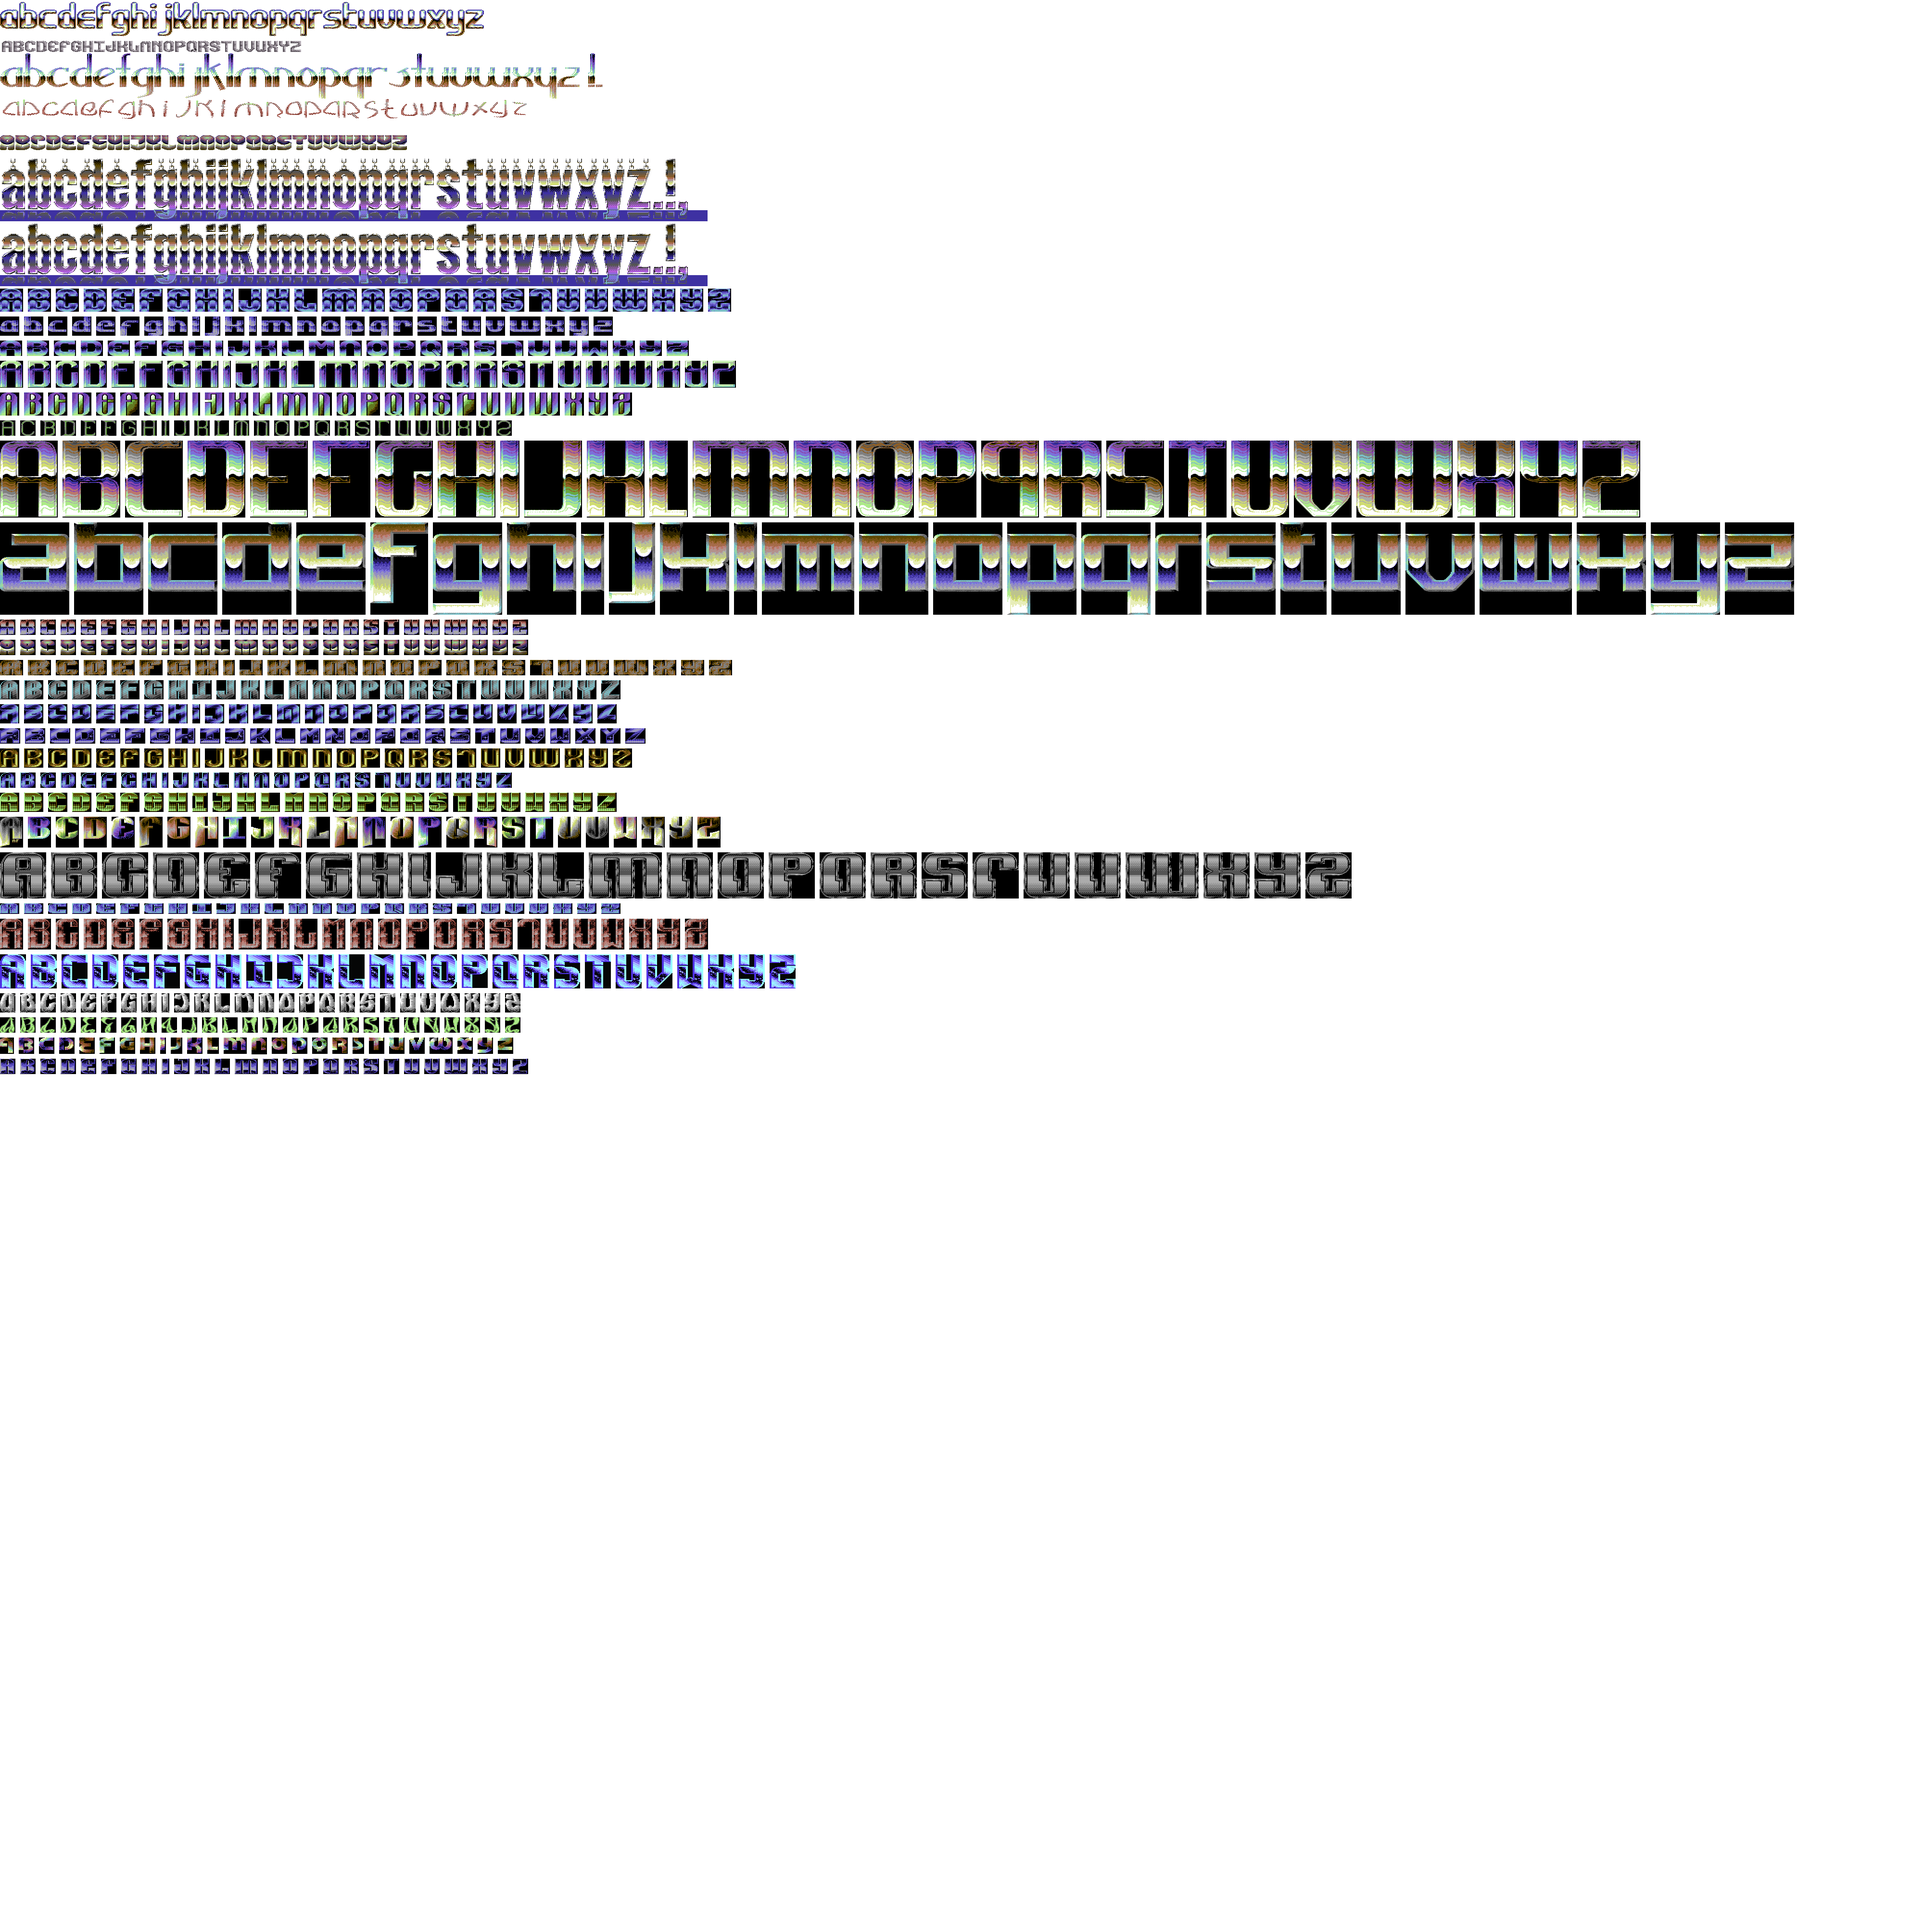
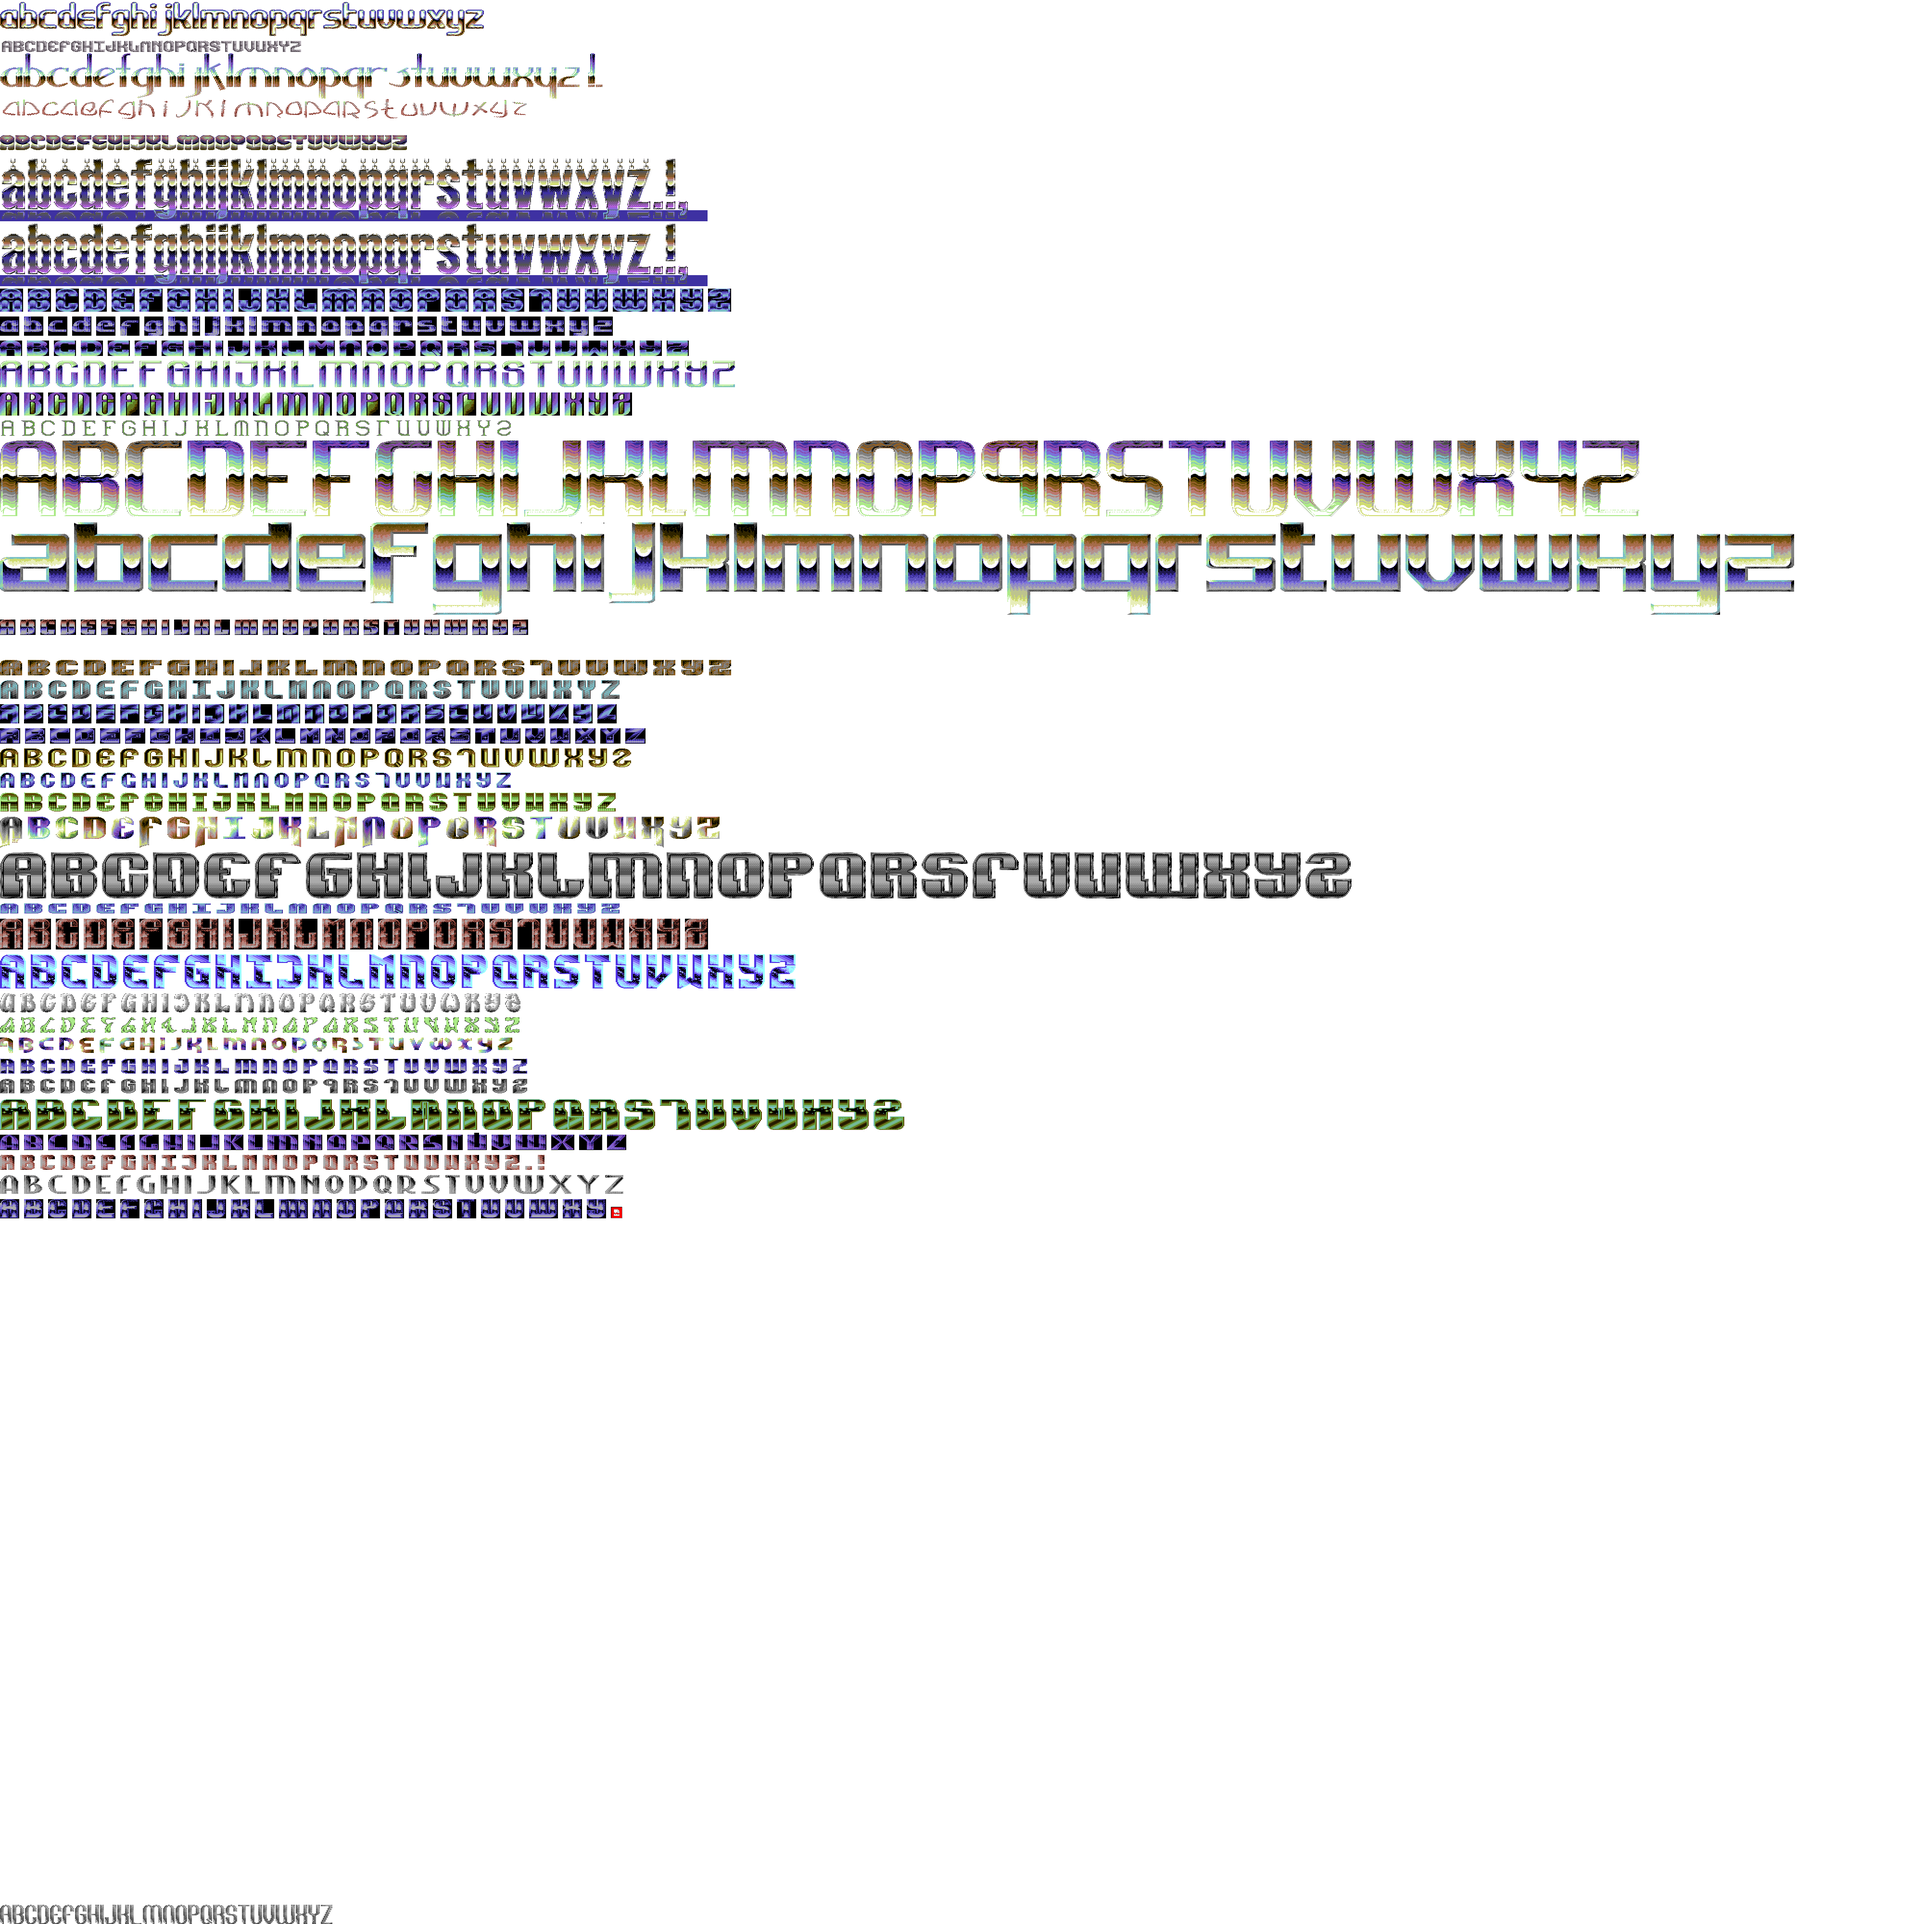
transparency, new font

diff --git a/js/fonts.js b/js/fonts.js
@@ -13,6 +13,21 @@ var fonts = {
     r:[708,41],s:[756,30],t:[790,37],u:[833,36],v:[871,37],w:[910,65],
     x:[983,30],y:[1015,40],z:[1063,34]
   },
+  cupid2014:{
+    product:'',
+    year:'',
+    productlink:'',
+    format:'',
+    maker:'Cupid',
+    makerlink: '',
+    offset:3960,height:40,
+    a:[0,24],b:[26,24],c:[52,24],d:[78,24],e:[104,24],f:[130,24],
+    g:[156,24],h:[182,24],i:[208,8],j:[218,23],k:[244,24],l:[270,24],
+    m:[296,40],n:[340,24],o:[365,24],p:[390,24],q:[416,24],
+    r:[442,24],s:[468,24],t:[496,24],u:[522,24],v:[548,24],
+    w:[572,40],x:[615,24],y:[640,24],z:[666,24]
+  },
+
   qpd:{
     product: '',
     year: '2001',
@@ -85,12 +100,12 @@ var fonts = {
     x:[1356,48],y:[1414,48],z:[1472,48]
   },
   artix: {
-    product:'',
-    year:'',
-    productlink:'',
-    format:'',
-    maker:'',
-    makerlink: '',
+    product:'Wet Dreams 2',
+    year:'1992',
+    productlink:'http://csdb.dk/release/?id=5902',
+    format:'3 colour charset',
+    maker:'Artix',
+    makerlink: 'http://csdb.dk/scener/?id=326',
     offset:658,height:40,
     a:[0,40],b:[50,40],c:[100,40],d:[150,40],e:[200,40],f:[250,40],
     g:[300,40],h:[350,40],i:[400,16],j:[426,32],k:[468,40],l:[518,16],
@@ -103,8 +118,8 @@ var fonts = {
     year:'',
     productlink:'',
     format:'',
-    maker:'Biz-Kid',
-    makerlink: 'http://csdb.dk/scener/?id=352',
+    maker:'',
+    makerlink: '',
     offset:708,height:32,
     a:[0,46],b:[56,46],c:[112,46],d:[168,46],e:[224,46],f:[280,46],
     g:[336,46],h:[392,46],i:[448,16],j:[474,46],k:[530,46],l:[586,46],
@@ -113,12 +128,12 @@ var fonts = {
     x:[1274,46],y:[1330,46],z:[1386,46]
   },
   bk: {
-    product:'',
-    year:'',
-    productlink:'',
-    format:'',
-    maker:'',
-    makerlink: '',
+    product:'Crazy Inside',
+    year:'1993',
+    productlink:'http://csdb.dk/release/?id=39807',
+    format:'Multicolour Bitmap',
+    maker:'Biz-Kid',
+    makerlink: 'http://csdb.dk/scener/?id=352',
     offset:750,height:56,
     a:[0,48],b:[58,48],c:[116,48],d:[174,48],e:[232,48],f:[290,48],
     g:[348,48],h:[406,48],i:[464,16],j:[490,48],k:[548,48],l:[606,48],
@@ -141,12 +156,12 @@ var fonts = {
     y:[1224,40],z:[1274,40]
   },
   cml:{
-    product:'',
-    year:'',
-    productlink:'',
-    format:'',
-    maker:'',
-    makerlink: '',
+    product:'Tower Power 92%',
+    year:'1993',
+    productlink:'http://csdb.dk/release/?id=11628',
+    format:'3 colour charset',
+    maker:'Vic',
+    makerlink: 'http://csdb.dk/scener/?id=1076',
     offset:874,height:32,
     a:[0,32],b:[84,32],c:[42,32],d:[126,32],e:[168,32],f:[210,32],g:[252,32],
     h:[294,32],i:[336,16],j:[362,32],k:[404,32],l:[446,30],m:[486,32],
@@ -183,12 +198,12 @@ var fonts = {
     z:[1474,48]
   },
   gp: {
-    product:'',
-    year:'',
-    productlink:'',
-    format:'',
-    maker:'',
-    makerlink: '',
+    product:'Green Raistlin Intro',
+    year:'1990',
+    productlink:'http://csdb.dk/release/?id=99406',
+    format:'3 colour charset',
+    maker:'Artline Designs',
+    makerlink: 'http://csdb.dk/scener/?id=2539',
     offset:1414,height:40,
     a:[0,40],b:[50,40],c:[100,40],d:[150,40],e:[200,40],f:[250,40],g:[300,40],
     h:[350,40],i:[400,40],j:[450,40],k:[500,40],l:[550,40],m:[600,40],
@@ -197,12 +212,10 @@ var fonts = {
     z:[1250,40]
   },
   htl:{
-    product:'',
-    year:'',
-    productlink:'',
-    format:'',
-    maker:'',
-    makerlink: '',
+    product:'Hotline Intro 73',
+    year:'1988',
+    productlink:'http://csdb.dk/release/?id=99751',
+    format:'3 colour charset',
     offset:1464,height:40,
     a:[0,40],b:[50,40],c:[100,40],d:[150,40],e:[200,40],f:[250,40],g:[300,40],
     h:[350,40],i:[400,16],j:[426,40],k:[476,40],l:[526,40],m:[576,48],
@@ -211,12 +224,12 @@ var fonts = {
     z:[1242,40]
   },
   htl2:{
-    product:'',
-    year:'',
-    productlink:'',
-    format:'',
-    maker:'',
-    makerlink: '',
+    product:'Strike Force Movers Intro',
+    year:'1988',
+    productlink:'http://csdb.dk/release/?id=78734',
+    format:'3 colour charset',
+    maker:'Conan',
+    makerlink: 'http://csdb.dk/scener/?id=2107',
     offset:1514,height:32,
     a:[0,42],b:[52,42],c:[104,42],d:[156,42],e:[208,42],f:[260,42],g:[312,42],
     h:[364,42],i:[416,42],j:[468,42],k:[520,42],l:[572,42],m:[624,42],
@@ -225,12 +238,12 @@ var fonts = {
     z:[1300,42]
   },
   manowar:{
-    product:'',
-    year:'',
-    productlink:'',
-    format:'',
-    maker:'',
-    makerlink: '',
+    product:'Style+++',
+    year:'1989',
+    productlink:'http://csdb.dk/release/?id=21574',
+    format:'3 colour charset',
+    maker:'TLR Designs',
+    makerlink: 'http://csdb.dk/scener/?id=6542',
     offset:1556,height:40,
     a:[0,40],b:[50,40],c:[100,40],d:[150,40],e:[200,40],f:[250,40],g:[300,40],
     h:[350,40],i:[400,16],j:[426,40],k:[476,40],l:[526,40],m:[576,64],
@@ -323,12 +336,12 @@ var fonts = {
     z:[1050,32]
   },
   wot:{
-    product:'',
-    year:'',
-    productlink:'',
-    format:'',
-    maker:'',
-    makerlink: '',
+    product:'Carpe Noctam',
+    year:'1990',
+    productlink:'http://csdb.dk/release/?id=7260',
+    format:'FLI',
+    maker:'Yup&Burp',
+    makerlink: 'http://csdb.dk/scener/?id=5006',
     offset:2157,height:34,
     a:[0,29],b:[39,32],c:[81,32],d:[123,32],e:[165,32],f:[207,32],g:[249,32],
     h:[291,32],i:[333,12],j:[355,24],k:[389,32],l:[431,24],m:[465,48],

diff --git a/js/logogen.js b/js/logogen.js
@@ -37,26 +37,24 @@
   var currentcolour = 'rgba(0,0,0,1)';
   var oldpixelcolour;
   var newpixelcolour;
-
-
-var c64cols = {
-  black: [0,0,0],
-  white: [255,255,255],
-  red: [104,55,43],
-  cyan: [112,164,178],
-  purple: [111,61,134],
-  green: [77,141,67],
-  blue: [53,40,121],
-  yellow: [184,199,111],
-  orange: [111,79,37],
-  brown: [67,57,0],
-  lightred: [154,103,89],
-  darkgrey: [68,68,68],
-  grey: [108,108,108],
-  lightgreen: [154,210,132],
-  lightblue: [108,94,181],
-  lightgrey: [149,149,149]
-};
+  var c64cols = {
+    black: [0,0,0],
+    white: [255,255,255],
+    red: [104,55,43],
+    cyan: [112,164,178],
+    purple: [111,61,134],
+    green: [77,141,67],
+    blue: [53,40,121],
+    yellow: [184,199,111],
+    orange: [111,79,37],
+    brown: [67,57,0],
+    lightred: [154,103,89],
+    darkgrey: [68,68,68],
+    grey: [108,108,108],
+    lightgreen: [154,210,132],
+    lightblue: [108,94,181],
+    lightgrey: [149,149,149]
+  };
 
 /*
   Seed navigation 
@@ -122,7 +120,7 @@ nav.innerHTML = out;
 */
   save.addEventListener('click',function(e){
     if (e.target.tagName === "BUTTON") {
-      editor.className = 'active';
+      editor.classList.toggle('active');
       var img = document.querySelector('#save img');
       ecx.canvas.width = img.naturalWidth;
       ecx.canvas.height = img.naturalHeight;
@@ -136,7 +134,9 @@ nav.innerHTML = out;
   Close editor
 */
   closeeditor.addEventListener('click',function(e){
-    editor.className = '';
+    editor.classList.toggle('active');
+    c64palette.classList.add('inactive');
+    savenewcolour.innerHTML = '';
     e.preventDefault();
   },false);
 
@@ -190,13 +190,13 @@ nav.innerHTML = out;
   function readcolour(ev) {
     var x = ev.layerX;
     var y = ev.layerY;
-    console.log(x,y);
     swab.style.background = 'rgba('+
       pixelcolour(x, y).r + ',' +
       pixelcolour(x, y).g + ',' +
       pixelcolour(x, y).b + ',' +
       pixelcolour(x, y).a + ')';
     oldpixelcolour = pixelcolour(x,y);
+    c64palette.classList.remove('inactive');
   }
   function pixelcolour(x, y) {
     var pixels = ecx.getImageData(0,0,ecx.canvas.width,ecx.canvas.height);

diff --git a/index.html b/index.html
@@ -42,7 +42,7 @@
   <div id="swab"></div>
   <canvas></canvas>
   <div id="savenewcolour"></div>
-  <ul class="palette" id="c64colours">
+  <ul class="palette inactive" id="c64colours">
     <li class="black" data-col="000000"></li>
     <li class="white" data-col="FFFFFF"></li> 
     <li class="red" data-col="68372B"></li> 

diff --git a/styles/logogen.css b/styles/logogen.css
@@ -213,9 +213,14 @@ footer p{
   color: #fff;
   padding: 2px 5px;
 }
+.inactive {
+  opacity: 0.1;
+  transition: 0.5s;
+}
 .palette {
   overflow: hidden;
   margin: 10px;
+  transition: 0.5s;
 }
 .black { background: #000000 }
 .white { background: #FFFFFF; }
